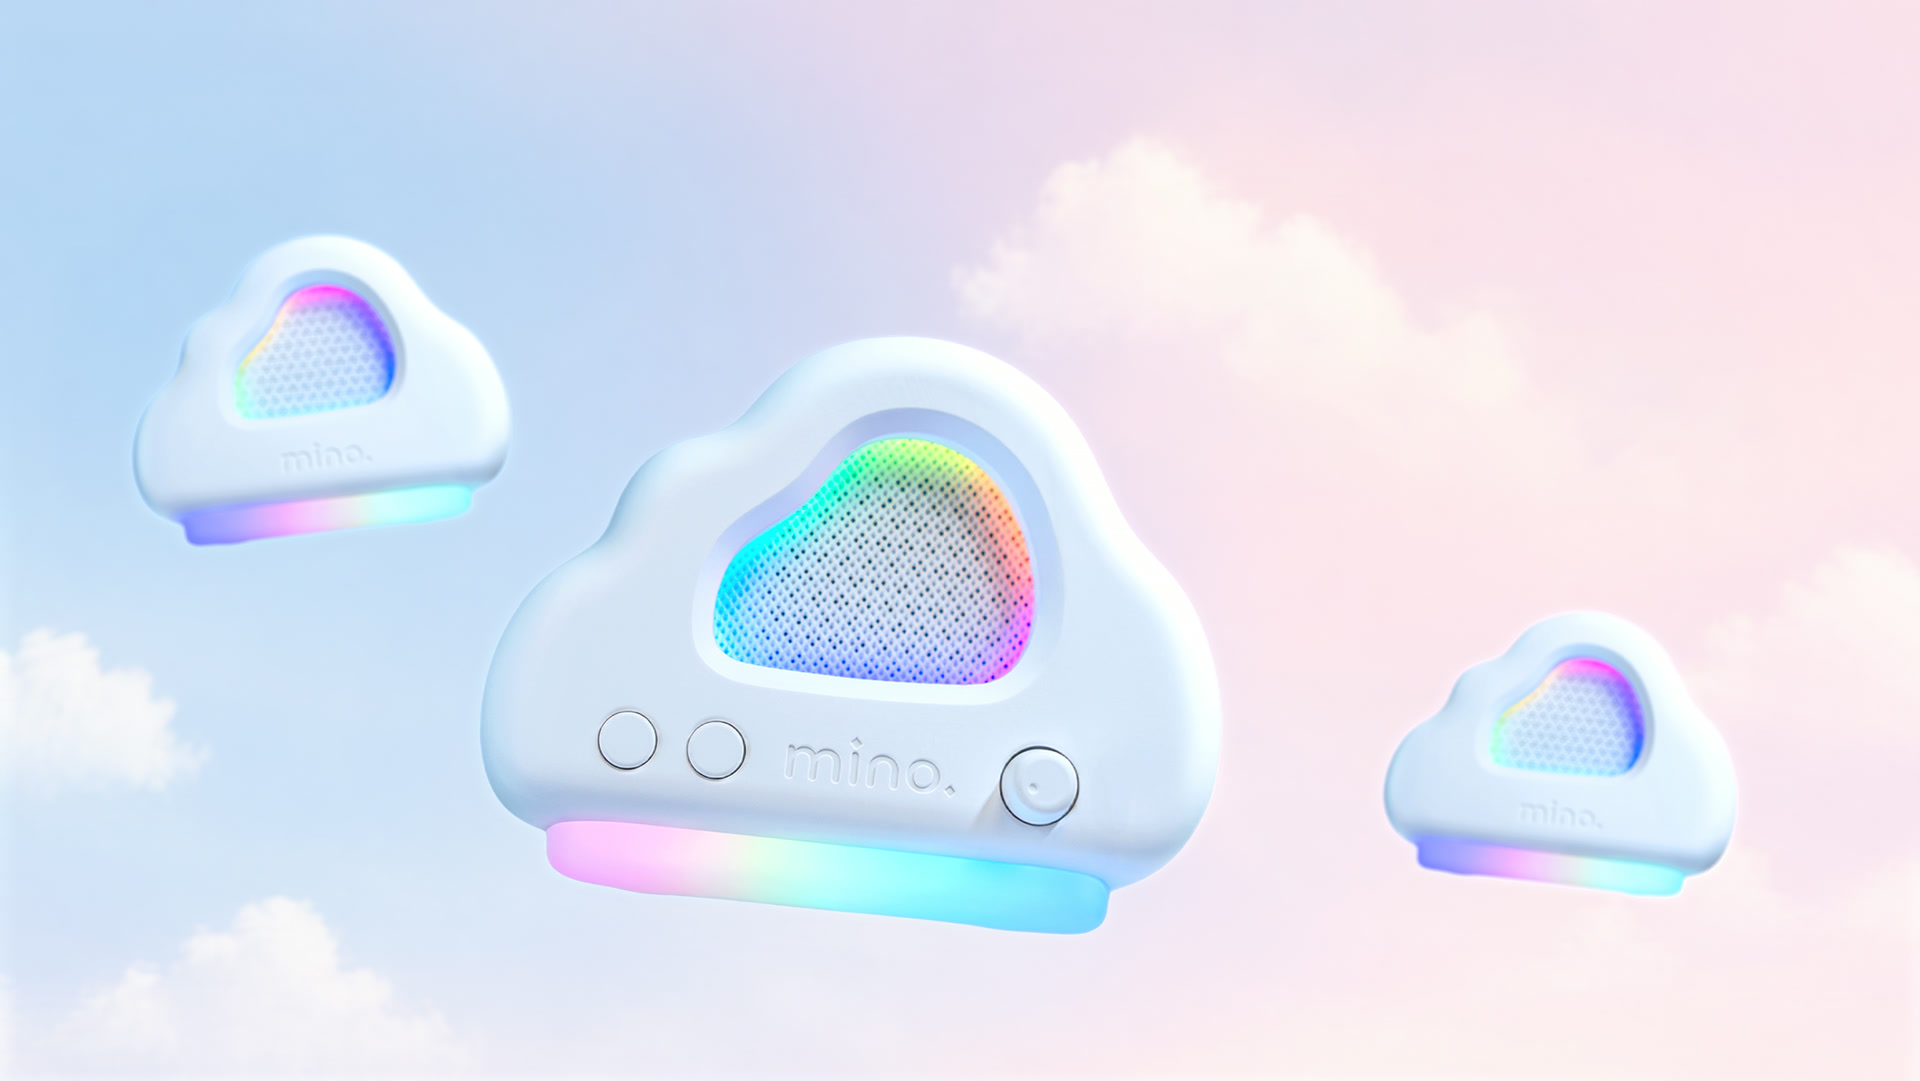
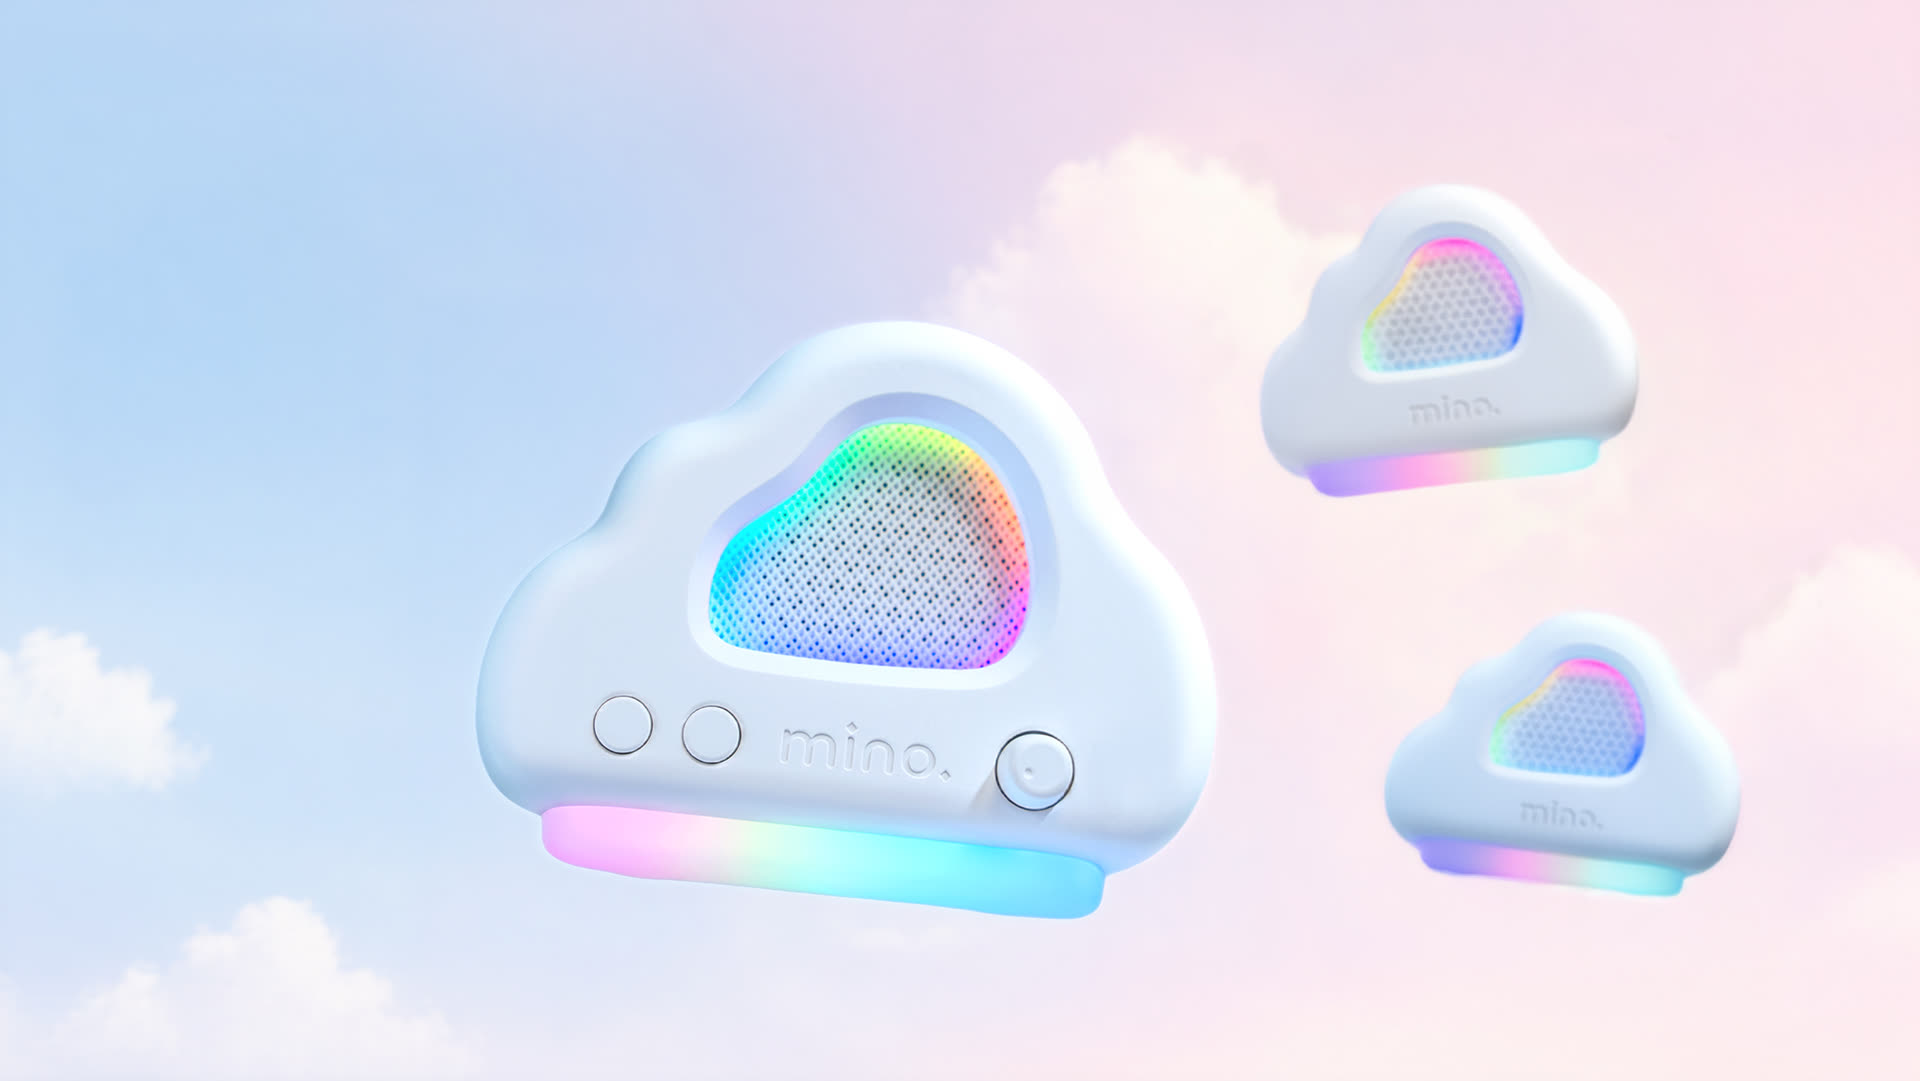
ヒーロー画像差し替え＋キャッチを左上の青空エリアに再配置・ライフスタイルSVG更新

diff --git a/product-cloudspeaker.html b/product-cloudspeaker.html
@@ -82,18 +82,18 @@
         linear-gradient(180deg, var(--sky-1) 0%, var(--sky-2) 45%, var(--sky-3) 100%);
     }
 
-    /* キャッチコピー（手書きSVG） — 右上寄り、少しだけ上に */
+    /* キャッチコピー（手書きSVG） — 左上の青空エリア */
     .hero-headline {
       position: absolute;
-      top: 100px;
-      right: 80px;
+      top: 80px;
+      left: 60px;
       z-index: 5;
       margin: 0;
       line-height: 0;
     }
     .hero-headline-svg {
       display: block;
-      width: clamp(380px, 38vw, 580px);
+      width: clamp(360px, 36vw, 540px);
       height: auto;
     }
 
@@ -784,8 +784,8 @@
           url('images/hero/hero-product-bg.jpg') no-repeat center / cover,
           linear-gradient(180deg, var(--sky-1) 0%, var(--sky-2) 45%, var(--sky-3) 100%);
       }
-      .hero-headline { top: 88px; right: 20px; }
-      .hero-headline-svg { width: 280px; max-width: 75vw; }
+      .hero-headline { top: 60px; left: 20px; }
+      .hero-headline-svg { width: 260px; max-width: 70vw; }
       .hero-tagline { bottom: 28px; left: 22px; gap: 4px; }
       .hero-tagline-jp { font-size: 11px; letter-spacing: 0.16em; }
       .hero-tagline-en { font-size: 18px; }
@@ -852,8 +852,8 @@
     }
     @media (max-width: 500px) {
       .hero { min-height: 500px; }
-      .hero-headline { top: 70px; right: 14px; }
-      .hero-headline-svg { width: 230px; max-width: 70vw; }
+      .hero-headline { top: 50px; left: 14px; }
+      .hero-headline-svg { width: 210px; max-width: 65vw; }
       .hero-tagline { bottom: 18px; left: 16px; }
       .hero-tagline-en { font-size: 15px; }
       .hero-cta { bottom: 18px; right: 14px; padding: 8px 16px; font-size: 10px; }
